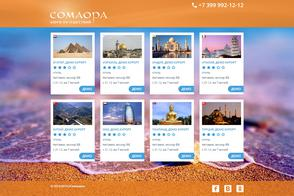
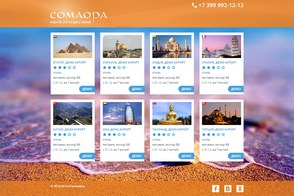
Portfolio continued.

diff --git a/index.html b/index.html
@@ -63,8 +63,7 @@
     
 
 <section class="intro">
-    <div class="intro-body">
-        <div class="container">
+    <div class="intro-body container text-center">
             <div class="row">
                 <div class="col-md-8 col-md-offset-2">
                     <h1 class="brand-heading">10R</h1>
@@ -77,14 +76,13 @@
                     </div>
                 </div>
             </div>
-        </div>
     </div>
 </section>
 
 <section id="services" class="container content-section text-center">
 <div class="row">
 
-    <div class="col-lg-3 col-lg-offset-1">
+    <div class="col-xs-8 col-xs-offset-2 col-lg-3 col-lg-offset-1">
         <span class="fa-stack fa-4x text-info">
             <i class="fa fa-circle fa-stack-2x"></i>
             <i class="fa fa-code fa-stack-1x fa-inverse"></i>
@@ -94,7 +92,7 @@
         </p>
     </div>
         
-    <div class="col-lg-4">
+    <div class="col-xs-8 col-xs-offset-2 col-lg-4 col-lg-offset-0">
         <span class="fa-stack fa-4x text-success">
             <i class="fa fa-circle fa-stack-2x"></i>
             <i class="fa fa-tablet fa-stack-1x fa-inverse"></i>
@@ -104,7 +102,7 @@
         </p>
     </div>
 
-    <div class="col-lg-3">
+    <div class="col-xs-8 col-xs-offset-2 col-lg-3 col-lg-offset-0">
         <span class="fa-stack fa-4x text-warning">
             <i class="fa fa-circle fa-stack-2x"></i>
             <i class="fa fa-terminal fa-stack-1x fa-inverse"></i>
@@ -132,10 +130,10 @@
 
 <section id="parallax-2" class="section parallax-section" data-stellar-background-ratio="0.5"></section>
 
-<section id="portfolio" class="container content-section text-center">
+<section id="portfolio" class="container content-section text-success text-center">
 
     <div class="row">
-        <div class="section-header col-md-offset-3 col-md-6 text-center">
+        <div class="section-header col-md-offset-3 col-md-6">
             <h2 class="section-heading">Наши работы</h2>
         </div>
     </div>  
@@ -144,27 +142,27 @@
 
         <div class="item col-xs-3">
             <a href="img/portfolio/1.jpg" class="popup">
-                <div class="item-hover">
-                    <p>Сайт туристического агенства</p>
-                </div>
+                <div class="wrap-a"><div class="wrap-b"><div class="item-hover">
+                    <label>Сайт туристического агенства</label>
+                </div></div></div>
                 <img src="img/portfolio/t/1-.jpg">
             </a>
         </div>
             
         <div class="item col-xs-3">
             <a href="img/portfolio/2.jpg" class="popup">
-                <div class="item-hover">
-                    <p>Логотип строительной фирмы</p>
-                </div>
+                <div class="wrap-a"><div class="wrap-b"><div class="item-hover">
+                    <label>Логотип строительной фирмы</label>
+                </div></div></div>
                 <img src="img/portfolio/t/2-.jpg">
             </a>
         </div>
 
         <div class="item col-xs-3">
             <a href="img/portfolio/3.jpg" class="popup">
-                <div class="item-hover">
-                    <p>Наномеханический пожарный</p>
-                </div>
+                <div class="wrap-a"><div class="wrap-b"><div class="item-hover">
+                    <label>Наномеханический пожарный</label>
+                </div></div></div>
                 <img src="img/portfolio/t/3-.jpg">
             </a>
         </div>

diff --git a/css/theme.css b/css/theme.css
@@ -94,7 +94,6 @@ p {
   width: 100%;
   height: auto;
   padding: 100px 0;
-  text-align: center;
   background: url(../img/intro.jpg) no-repeat bottom center scroll;
   -webkit-background-size: cover;
   background-size: cover;
@@ -179,33 +178,54 @@ a.btn.btn-circle:active {
     padding-top: 100px;
   }
 }
+#portfolio {
+  width: 100%;
+  height: 100%;
+  background: url(../img/folio.jpg) no-repeat top left scroll;
+  -webkit-background-size: cover;
+  background-size: cover;
+}
 #portfolio .item {
   margin-left: 6.25%;
+  margin-top: 50px;
   padding: 0;
 }
 #portfolio .item:hover .item-hover {
   opacity: 1;
 }
-#portfolio .item-hover {
-  position: absolute;
+#portfolio .item:hover img {
+  opacity: 0;
+}
+#portfolio img,
+#portfolio .wrap-a,
+#portfolio .wrap-b {
   width: 100%;
   height: 100%;
-  padding: 22.5% 20px;
-  color: #ffffff;
-  background-color: rgba(44, 62, 80, 0.5);
-  border-radius: 2px;
-  vertical-align: baseline;
-  opacity: 0;
-  -webkit-transition: opacity 0.5s ease-in-out;
-  transition: opacity 0.5s ease-in-out;
-  -webkit-transform: translateZ(0);
-  -ms-transform: translateZ(0);
-  transform: translateZ(0);
 }
 #portfolio img {
-  width: 100%;
-  height: 100%;
-  border-radius: 2px;
+  -webkit-transition: opacity 0.3s ease-in-out;
+  transition: opacity 0.3s ease-in-out;
+}
+#portfolio .wrap-a {
+  position: absolute;
+}
+#portfolio .wrap-b {
+  display: table;
+}
+#portfolio .item-hover {
+  display: table-cell;
+  vertical-align: middle;
+  background-color: rgba(255, 255, 255, 0.1);
+  border: 2px solid;
+  border-radius: 3px;
+  opacity: 0;
+  -webkit-transition: opacity 0.3s ease-in-out;
+  transition: opacity 0.3s ease-in-out;
+}
+@media (min-width: 767px) {
+  #portfolio .item-hover {
+    padding: 20px;
+  }
 }
 .mfp-figure:after {
   margin: -2px;
@@ -246,13 +266,21 @@ a.btn.btn-circle:active {
   margin: 10px 0;
 }
 .parallax-section {
-  margin-top: 150px;
-  height: 300px;
-  -webkit-background-size: 125%;
-  background-size: 125%;
+  margin-top: 100px;
+  height: 250px;
+  -webkit-background-size: cover;
+  background-size: cover;
   background-repeat: no-repeat;
-  background-position: right;
-  background-attachment: fixed;
+  background-position: left;
+}
+@media (min-width: 767px) {
+  .parallax-section {
+    margin-top: 150px;
+    height: 300px;
+    -webkit-background-size: 125%;
+    background-size: 125%;
+    background-attachment: fixed;
+  }
 }
 #parallax-1 {
   background-image: url(../img/parallax/1.jpg);
